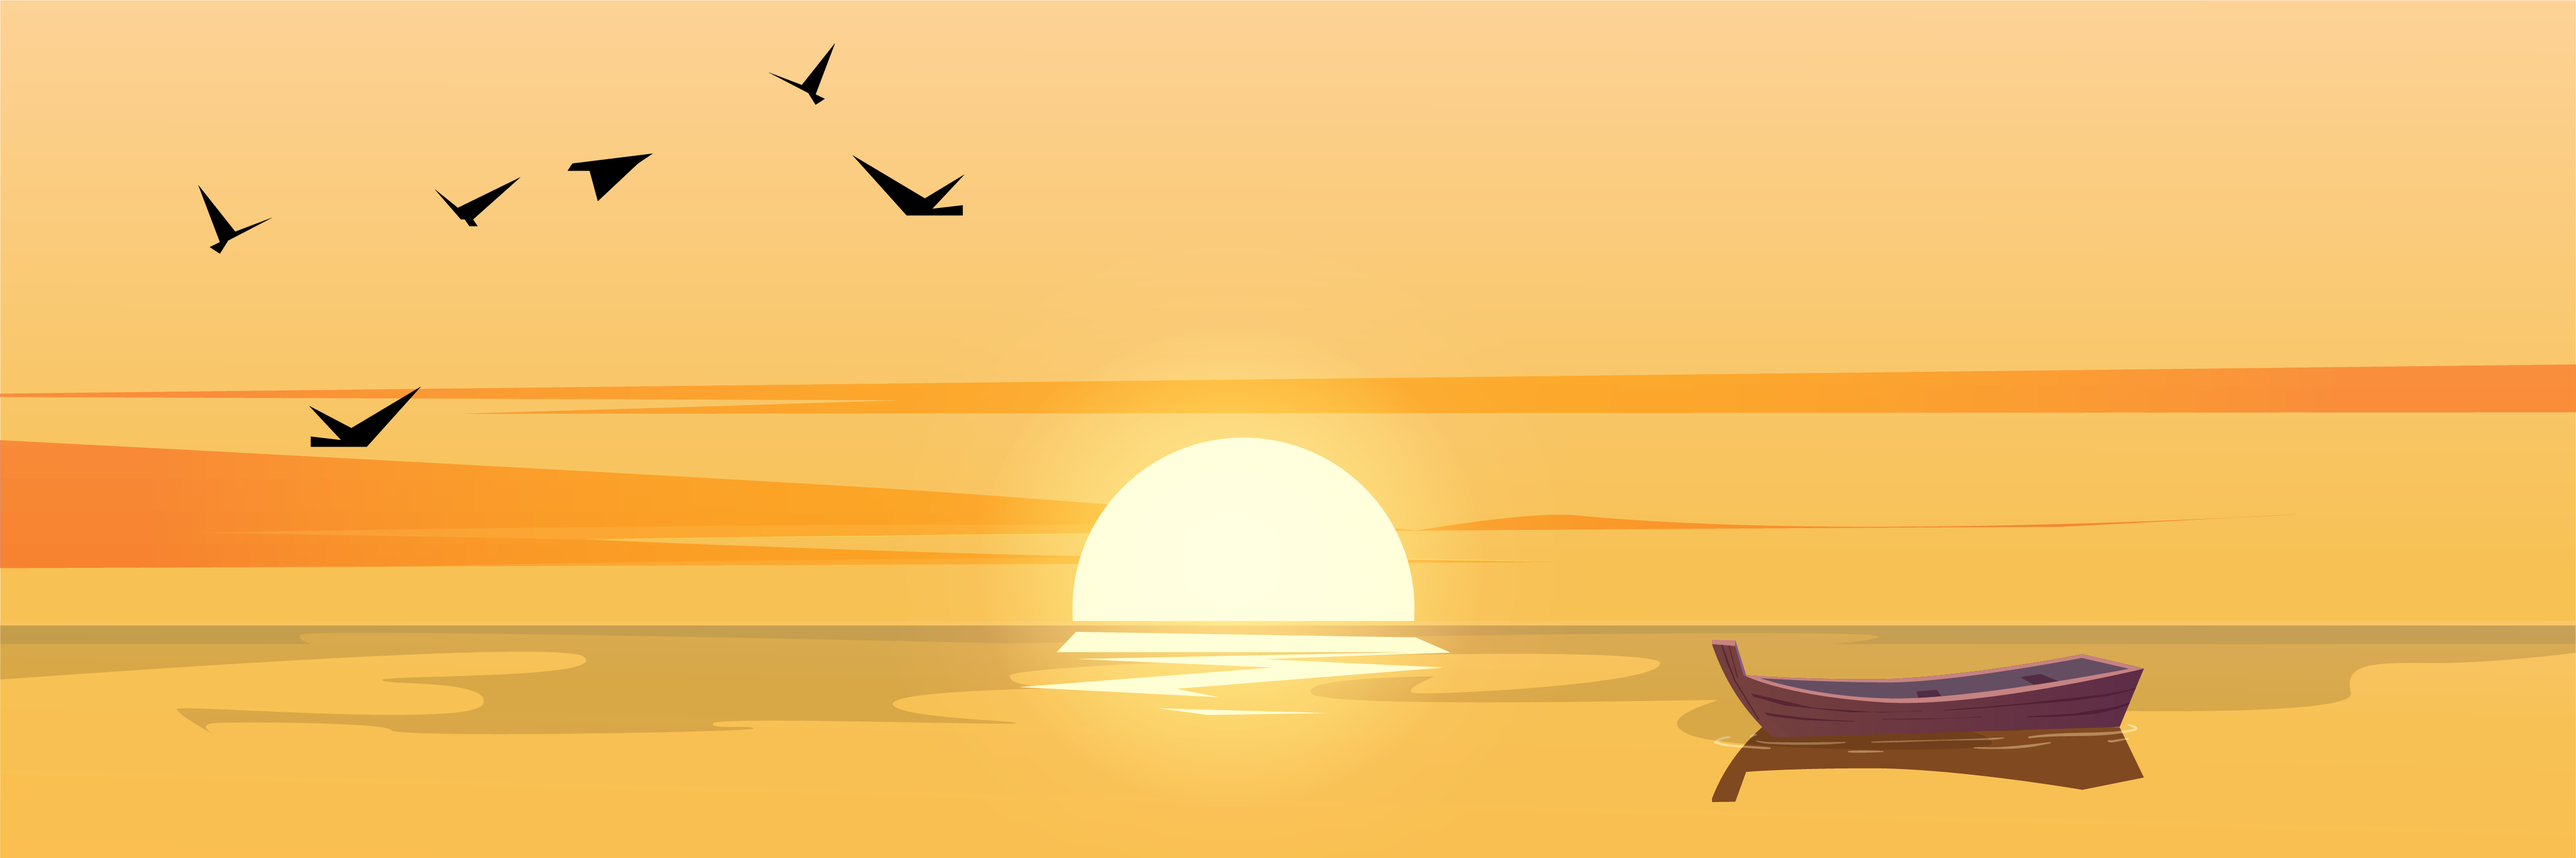
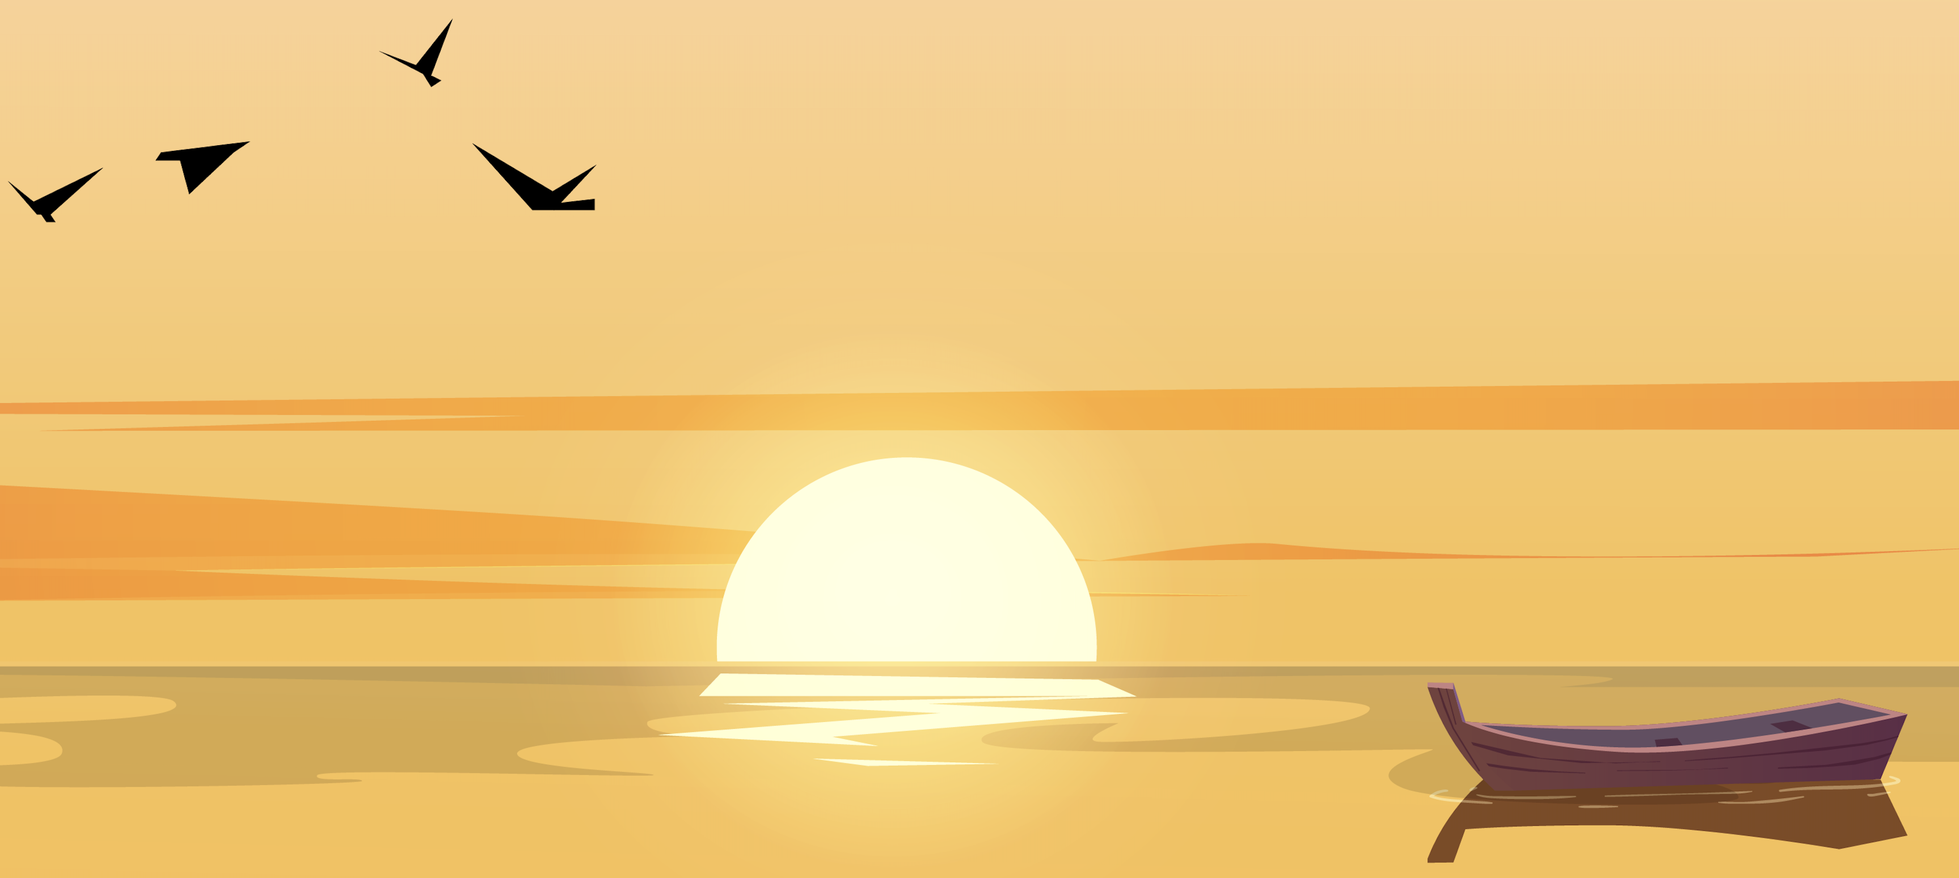
Adjusted the size of the background image

diff --git a/src/Components/HeroArea/HeroArea.module.scss b/src/Components/HeroArea/HeroArea.module.scss
@@ -1,13 +1,14 @@
 .heroArea_wrapper {
   background-image: url(../../assets/backgroundImage.png);
-  background-size: cover;
+  background-size: 100vw 900px;
   background-position: center;
   background-repeat: no-repeat;
-  width: 100%;
+  width: 100vw;
   height: 100%;
   padding: 100px 0;
   @media screen and (max-width: 599px) {
     padding: 50px 0;
+    background-size: cover;
   }
   .heroArea_content {
     padding-top: 7.5rem;
